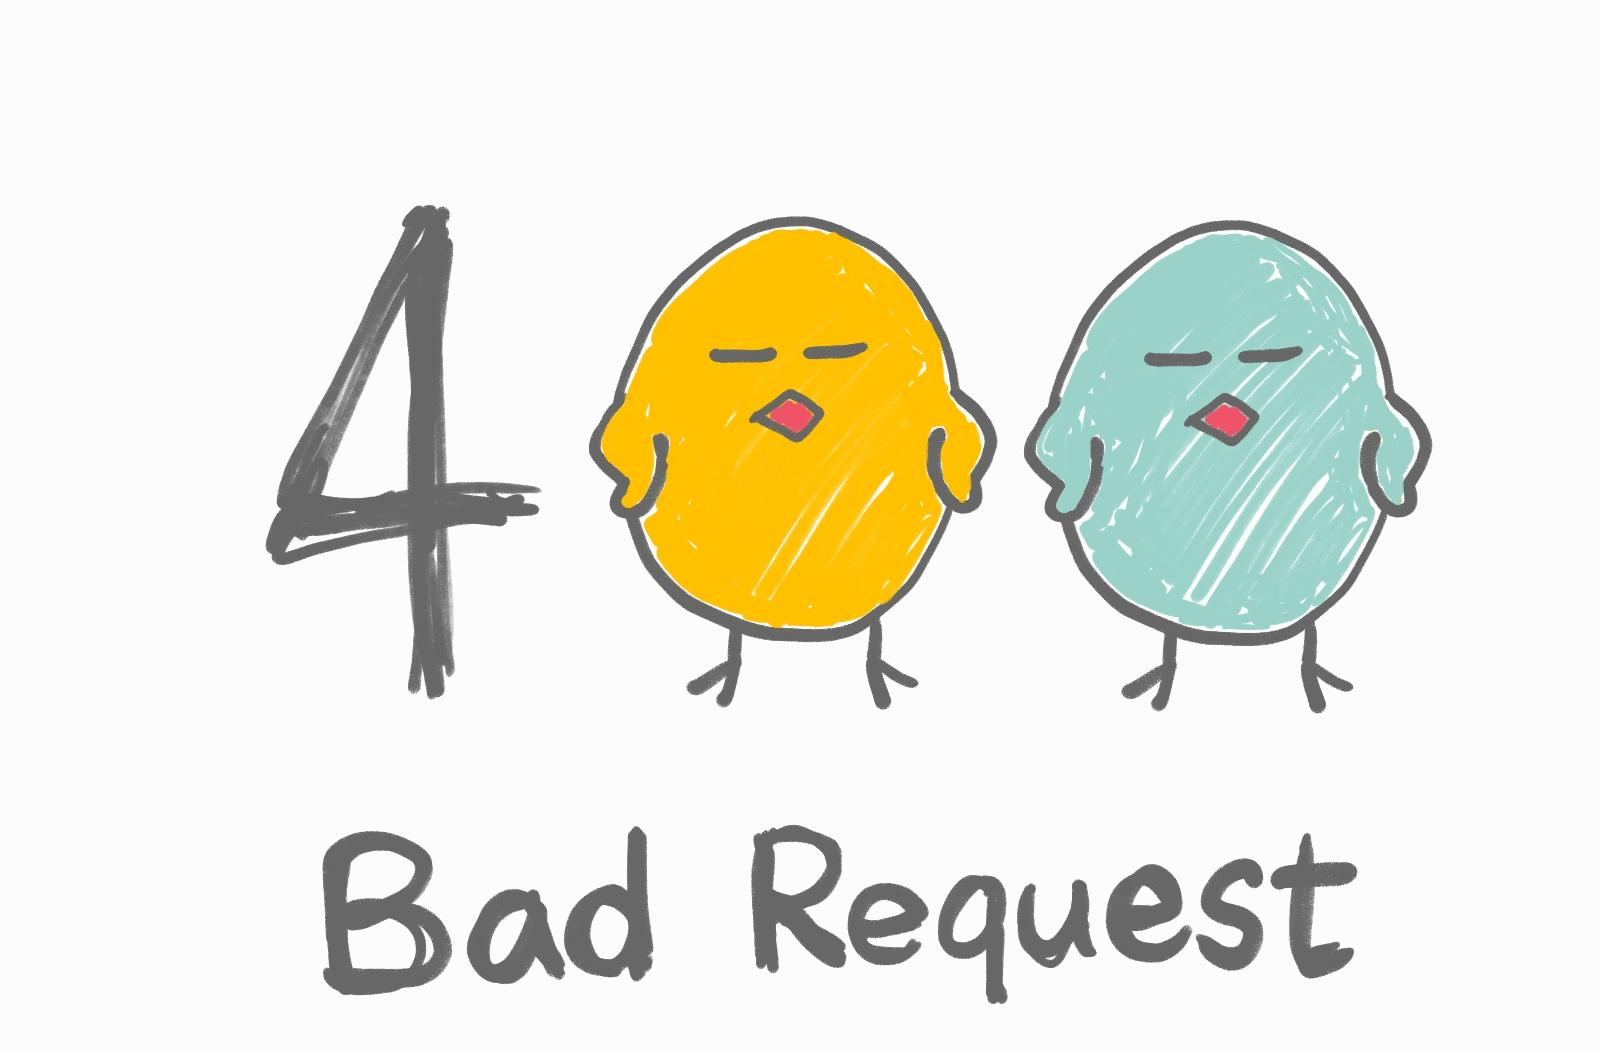
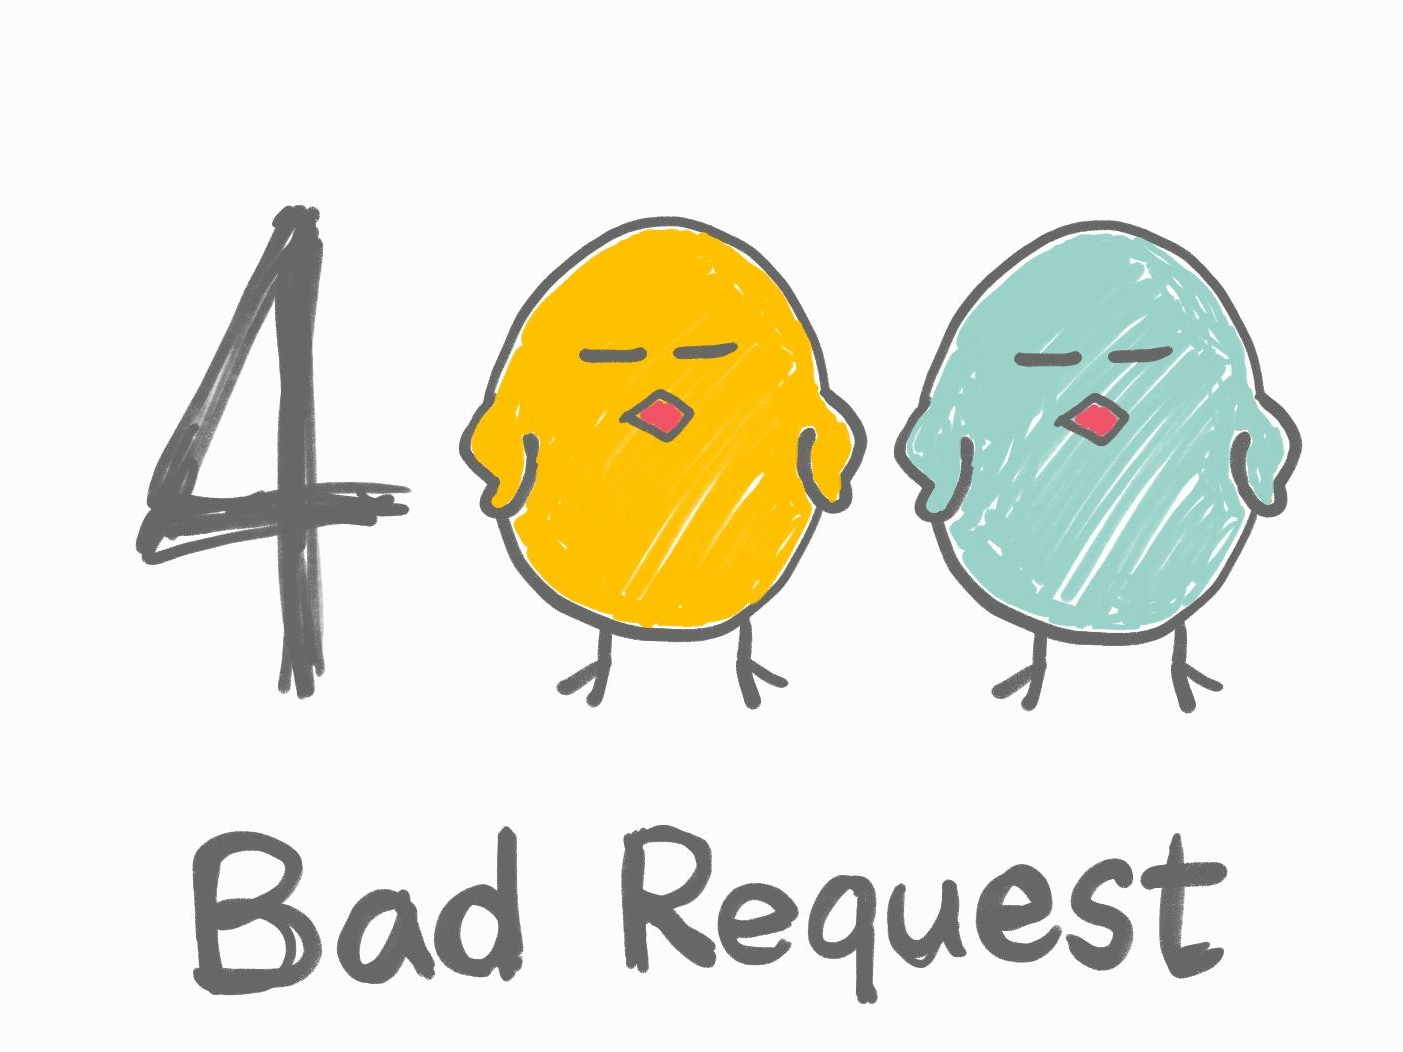
加入錯誤狀態雞圖

Changed region(s): [[0.0919, 0.1825, 0.9501, 0.6996], [0.1226, 0.7605, 0.8888, 0.9734], [0.6436, 0.3346, 0.6743, 0.365]]

diff --git a/ZoneRadar/Assets/CSS/searching/searching.css b/ZoneRadar/Assets/CSS/searching/searching.css
@@ -198,6 +198,11 @@ input[type="text"]:focus {
         transition: .3s;
     }
 
+.no-result-container {
+    max-width: 1000px;
+    margin: auto;
+}
+
 @media screen and (min-width: 768px) {
     .more-filter {
         max-width: 30%;

diff --git a/ZoneRadar/Controllers/HomeController.cs b/ZoneRadar/Controllers/HomeController.cs
@@ -70,5 +70,13 @@ namespace ZoneRadar.Controllers
         {
             return View();
         }
+        public ActionResult BadRequest()
+        {
+            return View();
+        }
+        public ActionResult ServerError()
+        {
+            return View();
+        }
     }
 }
